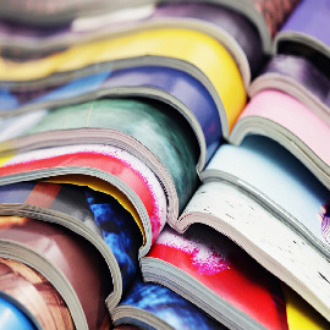
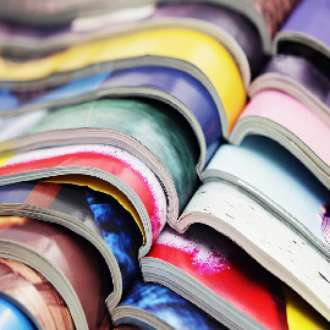
changement de format image de presentation

diff --git a/style.css b/style.css
@@ -862,7 +862,7 @@ h4 {
 }
 
 .bg-presentation {
-    background-image: url("img/image-de-presentation.bmp");
+    background-image: url("img/image-de-presentation.jpg");
 }
 
 @media (max-width: 1024px) {
